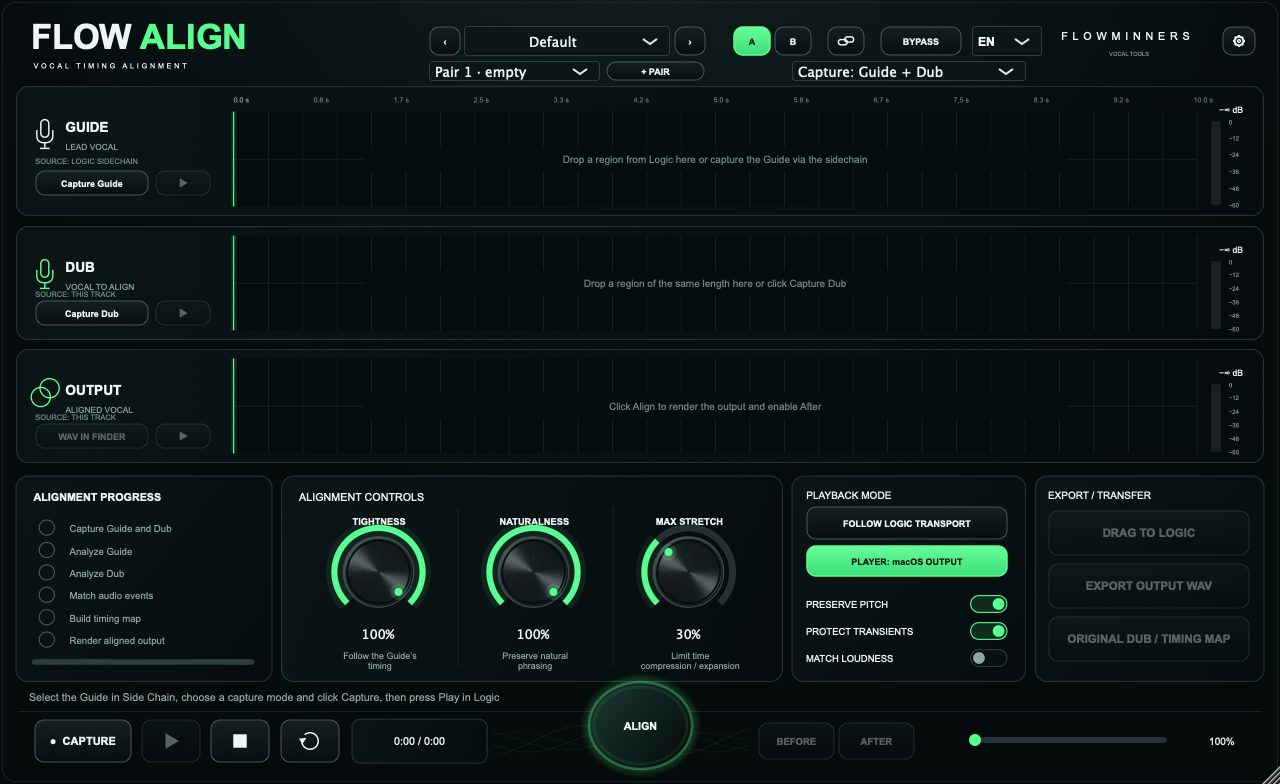
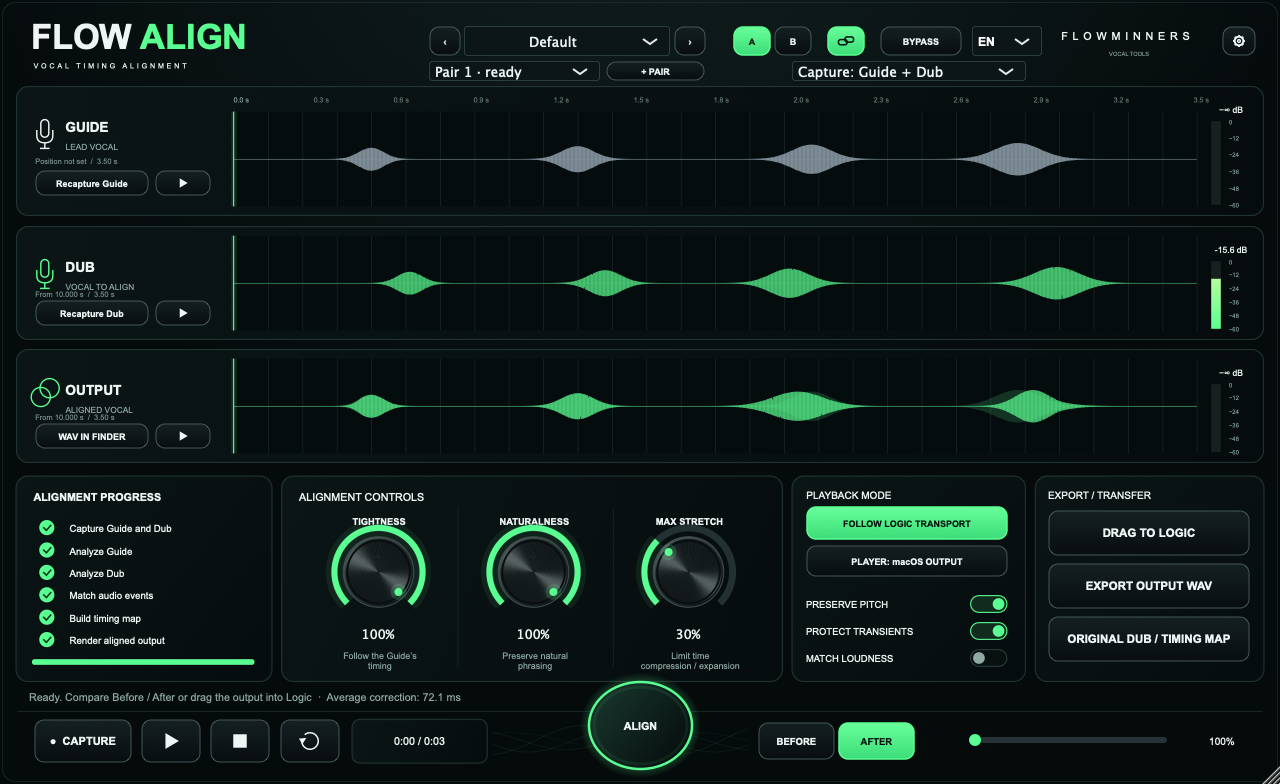
Document bilingual release validation and actual interface layouts

diff --git a/docs/localisation/TESTING.md b/docs/localisation/TESTING.md
@@ -1,0 +1,19 @@
+# FLOWALIGN 0.5.0 verification
+
+Compiled source commit: `de67072328250bf157ffba5b67e427ab97457a26`. JUCE: `454fe891acc8204f99f4ef1e3a28c84b1a4da145`. The release documentation update changes no compiled source or packaging logic.
+
+| Check | Russian | English |
+|---|---|---|
+| Full local processor regression | PASS | PASS |
+| [Independent macOS CI](https://github.com/Abynarc/FLOWALIGN/actions/runs/41633806853) | PASS | PASS |
+| [Windows x64 CI](https://github.com/Abynarc/FLOWALIGN/actions/runs/41633806797) | PASS | PASS |
+
+UI checks exercise the actual dropdown in both directions, independent instances, no processing-parameter changes, translated buttons/menus/tooltips, 1000/1280/1600-pixel layouts, editor recreation, state loading with an open editor, and old projects without a language property. Catalog coverage: 226 entries. Composed import errors are checked for complete English wording while preserving durations; filenames remain untouched.
+
+The processor suite covers capture/sidechain/transport, mono/stereo and sample rates, eight pairs, alignment, pitch/stereo preservation, cancellation, imports, WAV/CSV export, playback, concurrent processing and state compatibility. Switching language during armed capture and with completed aligned audio retains the capture and rendered output. Synthetic alignment timing error: 112 ms before, 3.5 ms after, in each language run.
+
+macOS PKG: arm64 + x86_64, minimum macOS 12. Package expansion, signed-payload hashes, ad-hoc signature, install/upgrade scripts on an isolated volume, system and per-user backups, and corrupted-payload rejection passed. The built AU was loaded directly and checked for both input buses and bit-exact stereo passthrough. Installed system plug-ins were not replaced for these checks.
+
+Windows: installer build, install, byte comparison, upgrade backup, pluginval strictness 5, uninstall and backup retention passed on a Windows runner. RU/EN screenshots from that runner were also inspected.
+
+Limits: no manual listening or interactive Logic/FL Studio session was performed. The Intel slice was cross-compiled; native Intel Mac hardware was not tested. The macOS package is not Developer ID signed/notarized; Windows has no publisher certificate. Host automation parameter names retain their existing registration independently of the custom editor language.

diff --git a/docs/localisation/DESIGN.md b/docs/localisation/DESIGN.md
@@ -7,6 +7,8 @@ Primary sources:
 - [Synchro Arts: VocAlign interface and operation](https://www.synchroarts.com/manuals/VocAlign6Standard/Manual/HTML/user-interface-and-operation.html): Guide, Dub, Output, Capture and Render.
 - [Synchro Arts: automatic time matching](https://www.synchroarts.com/manuals/VocAlign6Standard/Manual/HTML/adjusting-the-automatic-time-matching.html): tightness, time compression/expansion, and the distinction between Maximum Shift and stretch limits.
 - [Soundtoys: Little AlterBoy manual](https://www.soundtoys.com/wp-content/uploads/Little-AlterBoy-Manual.pdf): Pitch, Formant, semitones, Transpose. FLOWTONE preserves formants; it does not offer an independent Formant Shift knob.
+- [Steinberg: WaveLab Pro operation manual](https://archive.steinberg.help/wavelab_pro/v9.5/en/WaveLab_Pro_9_5_Operation_Manual_en.pdf): Preserve Formants and quality modes.
+- [Eventide: MicroPitch Immersive user guide](https://downloads.eventide.com/audio/manuals/plug-ins/MicroPitch%2BImmersive%2BUser%2BGuide.pdf): Output Gain.
 - [zplane: deCoda quick reference](https://products.zplane.de/uploads/Installers-Manuals/DECODA/deCoda_quick_reference.pdf): detected key, tempo and transposition.
 
 The wording below is a product-specific choice based on the actual controls, not a claim that competing plug-ins have identical algorithms.
@@ -38,3 +40,11 @@ The existing graphite/green design and control placement are retained. A keyboar
 All visible strings, menus, tooltips, dialogs, help, status/error messages and units are covered. Filenames and host track names remain user data. Host automation IDs, parameter order/ranges/defaults and DSP are preserved. Host parameter display names retain their existing registration, since hosts cache these independently of the custom editor.
 
 Catalogs are `Source/Translations.json`. Generated headers must stay in sync. UI tests must exercise the dropdown in both directions, editor recreation, state restoration, old projects, independent instances, both layouts, actual processing and analysis. Final screenshots come from the real JUCE editors.
+
+## Actual editors
+
+The vector layout is the design reference. These images are snapshots of the actual JUCE editors with synthetic audio:
+
+![English interface](en-interface.png)
+
+![Russian interface](ru-interface.png)

diff --git a/README.md b/README.md
@@ -4,7 +4,7 @@
 
 Интерфейс **Русский / English**: переключатель **RU / EN** в верхней панели. Выбор сохраняется в проекте.
 
-![FLOWALIGN](docs/images/flowalign.png)
+![FLOWALIGN](docs/localisation/ru-interface.png)
 
 - Импорт аудиофайлов и регионов или захват дорожек через Side Chain.
 - Настройка точности, естественности и растяжения. Точность и естественность по умолчанию — 100%.
